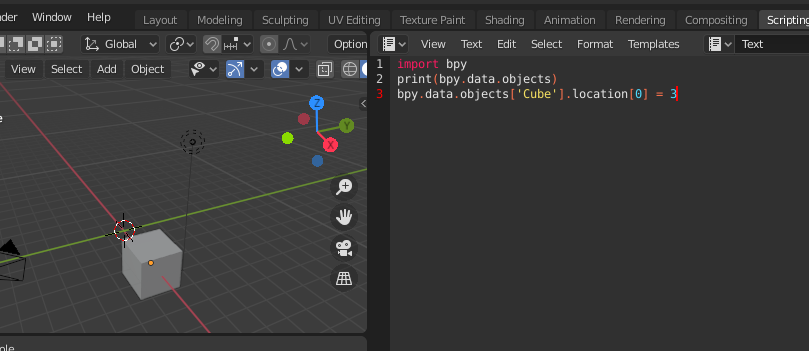
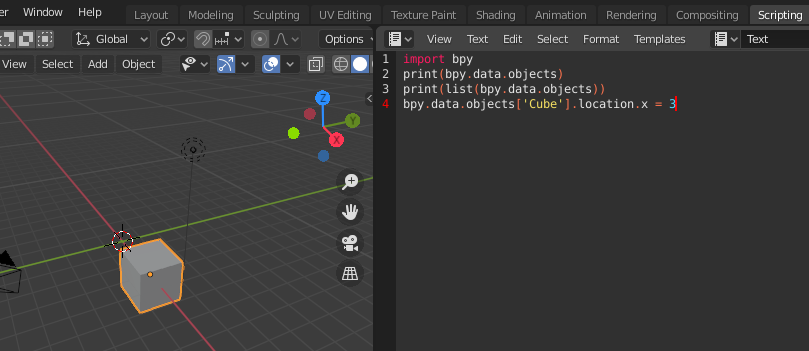
- wip

diff --git a/_posts/2020-11-01-a_quick_intro_to_blender_creative_coding--part_3_of_3.md b/_posts/2020-11-01-a_quick_intro_to_blender_creative_coding--part_3_of_3.md
@@ -56,7 +56,7 @@ In [part 2]({% post_url 2020-07-14-a_quick_intro_to_blender_creative_coding--par
 Use the Python `list()` function with `bpy.data.objects` to print a list of the objects in your scene:
 
 {% highlight py %}
-print( list(bpy.data.objects) )
+print(list(bpy.data.objects))
 {% endhighlight %}
 
 When you run the script, it should display the following output in the terminal:
@@ -65,169 +65,86 @@ When you run the script, it should display the following output in the terminal:
 [bpy.data.objects['Camera'], bpy.data.objects['Cube'], bpy.data.objects['Light']]
 ```
 
-You can address any item using its *key* (item name) or *index* (order in the sequence). Index values begin at zero---so the camera is item `0`, the cube is item `1`, and so forth. For instance, you can use `bpy.data.objects['Cube']` or `bpy.data.objects[1]` to address the cube. Next, you'll manipulate the cube using different attributes and methods.
+You can address any object using its *key* (item name) or *index* (order in the sequence). Index values begin at zero---so the camera is object `0`, the cube is object `1`, and so forth. For instance, you can use `bpy.data.objects['Cube']` or `bpy.data.objects[1]` to address the cube. Next, you'll manipulate the cube using different attributes and methods.
 
 ## Attributes and Methods
 
-If you're familiar with any object-oriented programming language, you've encountered attributes and methods before---and you've likely identified a few examples of these in the code so far. I won't review every attribute and method in the Blender scripting API---there are far too many for that! Instead, I'll use a few examples to help you discover what's available; you can use the [API documentation](https://docs.blender.org/api/current/) for the rest.
-
-Attributes hold values that control the properties of any object---for example, there's a `location` attribute that contains the coordinates for your cube, that you can use to reposition it. Try this code:
-
-`bpy.data.objects['Cube'].location = (3, 0, 0)`
-
-This positions the cube at the x-y-z coordinates (3, 0, 0). In this instance, you're only affecting the x-coordinate, so instead, you might use:
-
-`bpy.data.objects['Cube'].location.x = 3`
-
-Run the script and the cube should move to its new position (Figure 3.3), three units away from the centre of the scene:
-
-<figure>
-  <img src="{{ site.url }}/img/aqitbcc03/scripting-basics-addressing-location.png" class="fullwidth" />
-  <figcaption>Figure 3.3: This x-coordinate for the Cube is now 3</figcaption>
-</figure>
-
-
-You've [enabled python tooltips]({% post_url 2020-07-14-a_quick_intro_to_blender_creative_coding--part_2_of_3 %}#python-tooltips), so if you hover any fields in the *Object Properties* panel, there's a tooltip to indicate how you address that specific attribute for that specific object in Python. In Figure 3.2, it's the x-coordinate for the cube.
-
-<figure>
-  <img src="{{ site.url }}/img/aqitbcc03/scripting-object-properties-panel.png" class="fullwidth" />
-  <figcaption>Figure 3.2: This x-coordinate for the Cube is stored in <code>bpy.data.objects["Cube"].location[0]</code></figcaption>
-</figure>
-
-
-
-
-
-
-
-
-
-
-
-
-
-
-
-
-
-
-
-
-<blockquote>
-mathutils note?
-https://docs.blender.org/api/current/index.html
-</blockquote>
-
-.delete()
-removing the cube?
-
-
-
-
-
-
-
-
-
-
-
-executing scripts direct from command line (blender --python script_name.py)
-
-
-mention python comments
-
-
-
-
-
-
-
-
+If you're familiar with any object-oriented programming language, you've encountered attributes and methods before (and you've likely identified a few examples of these in the code so far). I won't review every attribute and method in the Blender scripting API---there are far too many for that! Instead, I'll use a few examples to help you discover what's available; you can use the [API documentation](https://docs.blender.org/api/current/) for the rest.
 
 ### Attributes
 
-Attributes are like variables that belong to objects. An object's data type determines its attributes. For example, the Cube---a three-dimensional "primitive" mesh, composed of vertices---has includes attributes for its dimensions, location, scale, and so on. The Cube data type is `bpy_types.Object`; you can confirm this using `type(D.objects['Cube'])`.
+Attributes are like variables that belong to objects. An object's data type determines its attributes. For instance, the cube---a three-dimensional mesh, composed of vertices---includes attributes for its dimensions, coordinates, and so on. The cube data type is `bpy_types.Object`; you can confirm this by printing `bpy.data.objects['Cube']` in the terminal or console.
 
-You'll explore some of the `Object` attributes using the Python Console. To begin, enter:
+The `location` attribute---one of the many `bpy_types.Object` attributes---contains the coordinates for your cube, that you can use to reposition it:
 
-```
-`D.objects['Cube'].`
-```
+{% highlight py %}
+bpy.data.objects['Cube'].location = (3, 0, 0)
+{% endhighlight %}
 
-Then, press tab for a long, alphabetically arranged list of attributes (and methods). See if you can spot the `location` attribute (you'll probably need to scroll up/back through the output):
+This positions the cube at the x-y-z coordinates (3, 0, 0). In this case, you're only affecting the x-coordinate, so instead, you might use:
 
-```
->>> D.objects['Cube'].
-                      ...
-                      location
-                      ...
-```
+{% highlight py %}
+bpy.data.objects['Cube'].location[0] = 3
+{% endhighlight %}
 
-You can you can find the relevant documentation for the `location` attribute here:
+Note that `.location[0]` is the index of the first (x) value in `(3, 0, 0)`. Alternatively, you can try the `.location.x` attribute, which is arguably the most intuitive code to read:
 
-*[https://docs.blender.org/api/current/bpy.types.Object.html](https://docs.blender.org/api/blender2.8/bpy.types.Object.html)*
+{% highlight py %}
+bpy.data.objects['Cube'].location.x = 3
+{% endhighlight %}
 
-You can use your web browser's search function (`Ctrl+F` or `Cmd+F`) to quickly get to the `location` entry; there are multiple mentions of "location" on the page and it's about the fifth from the top (Figure 3.2).
+Run the script and the cube should move to its new position (Figure 3.3), three units away from the centre of the scene along the x-axis:
+
+<figure>
+  <img src="{{ site.url }}/img/aqitbcc03/scripting-basics-addressing-location.png" class="fullwidth" />
+  <figcaption>Figure 3.3: This x-coordinate for the cube is now 3</figcaption>
+</figure>
+
+
+You've [enabled python tooltips]({% post_url 2020-07-14-a_quick_intro_to_blender_creative_coding--part_2_of_3 %}#python-tooltips), so if you hover your mouse pointer over any fields in the *Object Properties* panel, there's a tooltip to indicate how you address that specific attribute for that particular object in Python. This panel is usually located in the lower-right area of the Blender interface, in both the Layout and Scripting workspaces. In Figure 3.4, the tooltip reveals the Python details for the cube's x-coordinate:
+
+<figure>
+  <img src="{{ site.url }}/img/aqitbcc03/scripting-object-properties-panel.png" class="fullwidth" />
+  <figcaption>Figure 3.4: This x-coordinate for the Cube is stored in <code>bpy.data.objects["Cube"].location[0]</code></figcaption>
+</figure>
+
+If you right-click on this field, there's a menu option named **Online Python Reference** that opens the relevant documentation for the `location` attribute in your web browser (Figure 3.5).
 
 <figure>
   <img src="{{ site.url }}/img/aqitbcc03/scripting-basics-attributes-and-methods-location.png" class="fullwidth" />
-  <figcaption>Figure 3.2: The <code>location</code> entry in the online reference</figcaption>
+  <figcaption>Figure 3.5: The <code>location</code> entry in the online reference</figcaption>
 </figure>
 
-Take note of the URL, specifically, everything after the last slash. There's `bpy` then `types` then `Object`. Using this pattern, it's easy enough to guess what the URL for the `context` module is (*/bpy.types.Context.html*). You can also navigate the reference using the search feature and links in the left column.
+Take note of the URL in the browser address bar: [https://docs.blender.org/api/2.83/bpy.types.Object.html#bpy.types.Object.location](https://docs.blender.org/api/2.83/bpy.types.Object.html#bpy.types.Object.location). Specifically, note everything after the last slash. There's `bpy.types.Object.html` to load the web page, followed by `#bpy.types.Object.location` to jump/scroll to the `location` description. You can also navigate the reference using the search feature and links in the left column. Sometimes it's handy to use your web browser search function (`Ctrl+F` or `Cmd+F`) to find something on a given page quickly.
 
-As the documentation indicates, the `location` attribute takes three floating-point values (an x, y, and z coordinate, respectively). Move the Cube to a position five units above the centre of the scene:
+If you'd like to experiment with another attribute, perhaps try [`scale`](https://docs.blender.org/api/2.83/bpy.types.Object.html#bpy.types.Object.scale).
 
-```
-D.objects['Cube'].location = (0, 0, 5)
-```
-
-Alternatively, you could use any of the following lines:
-
-```
-D.objects['Cube'].location = 0, 0, 5
-D.objects['Cube'].location = Vector((0, 0, 5))
-D.objects['Cube'].location.z = 5
-```
-
-Now try a `scale` attribute. Type `D.objects['Cube'].scale` then press tab. The auto-complete option are `[0]`, `[1]`, or `[2]`; those indices represent the x, y, and z-scale respectively. Enter `D.objects['Cube'].scale[0] = 2` to double the width of the cube using the x-axis (Figure 3.3).
-
-<figure>
-  <img src="{{ site.url }}/img/aqitbcc03/scripting-basics-attributes-and-methods-location-and-scale.png" class="fullwidth" />
-  <figcaption>Figure 3.3: Manipulating the cube's location and scale attributes</figcaption>
-</figure>
-
-Now that you used a few different attributes, let's look at some methods.
+Now that you've used a few different attributes, let's look at methods.
 
 ### Methods
 
-Methods are like functions that belong to objects. You can list the `Object` methods using the Python Console. Enter:
+Methods are like functions that belong to objects, that perform operations. For instance, the [`bpy.ops.mesh`](https://docs.blender.org/api/blender2.8/bpy.ops.mesh.html) module includes several methods for adding meshes to your scene. In this section, you'll different methods to add and remove objects in your scene.
 
-```
-`D.objects['Cube'].`
-```
+The [`primitive_cone_add()`](https://docs.blender.org/api/blender2.8/bpy.ops.mesh.html#bpy.ops.mesh.primitive_cone_add) will "construct a conic mesh"; in other words, you use this this method to add cones to your scene (Figure 3.6). Add cone using this code:
 
-The methods are listed among the attributes; they're also covered in the [bpy.types.Object documentation](https://docs.blender.org/api/blender2.8/bpy.types.Object.html). You can distinguish methods by the parentheses on the end. See if you can spot the `select_set` method:
+{% highlight py %}
+bpy.ops.mesh.primitive_cone_add()
+{% endhighlight %}
 
-```
->>> D.objects['Cube'].
-                      ...
-                      select_set(
-                      ...
-```
+<figure>
+  <img src="{{ site.url }}/img/aqitbcc03/scripting-methods-add-cone.png" class="fullwidth" />
+  <figcaption>Figure 3.6: Adding a cone using <code>primitive_cone_add()</code></figcaption>
+</figure>
 
-This `select_set` method selects or deselects objects in the viewport. Deselect the Cube using:
-
-```
-`D.objects['Cube'].select_set(False)`
-```
-
-To select the Cube again, use an argument of `True`.
-
-To recap, you've use the Python Console to work with the `data` and `context` modules. You know how to address objects via Python code, and manipulate
+The [`primitive_cone_add()`] method can also accept *arguments* to specify cone radius, depth, location, rotation, scale, and more. Add a second
 
 
-https://docs.blender.org/api/current/info_tips_and_tricks.html
+
+
+~~~
+
+
+
 
 
 ## Animation
@@ -262,6 +179,27 @@ for i in range(0, fcount, 1):
     ob.keyframe_insert(data_path='location')
     currframe += fincr
 ~~~
+
+
+
+
+
+
+<blockquote>
+mathutils note?
+https://docs.blender.org/api/current/index.html
+</blockquote>
+
+.delete()
+removing the cube?
+
+executing scripts direct from command line (blender --python script_name.py)
+
+mention python comments
+
+
+
+
 
 
 ## Importing
